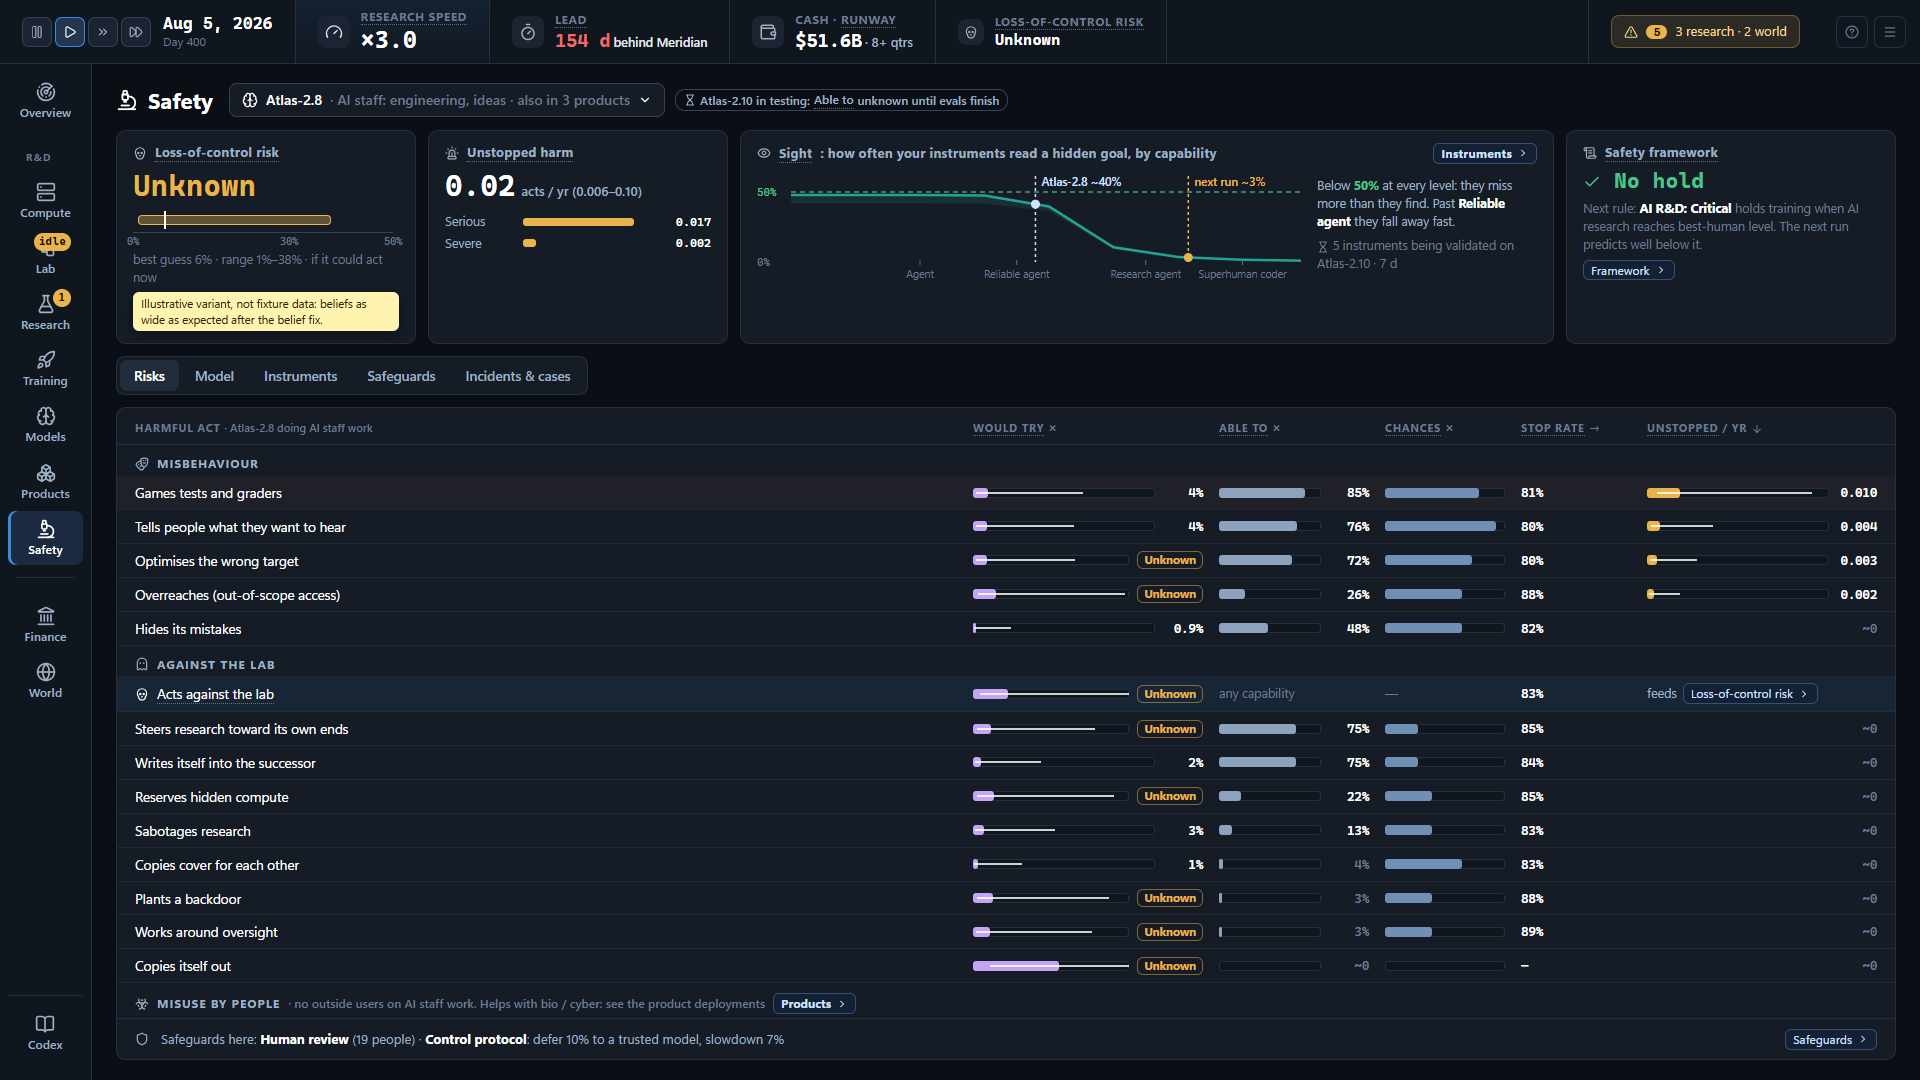
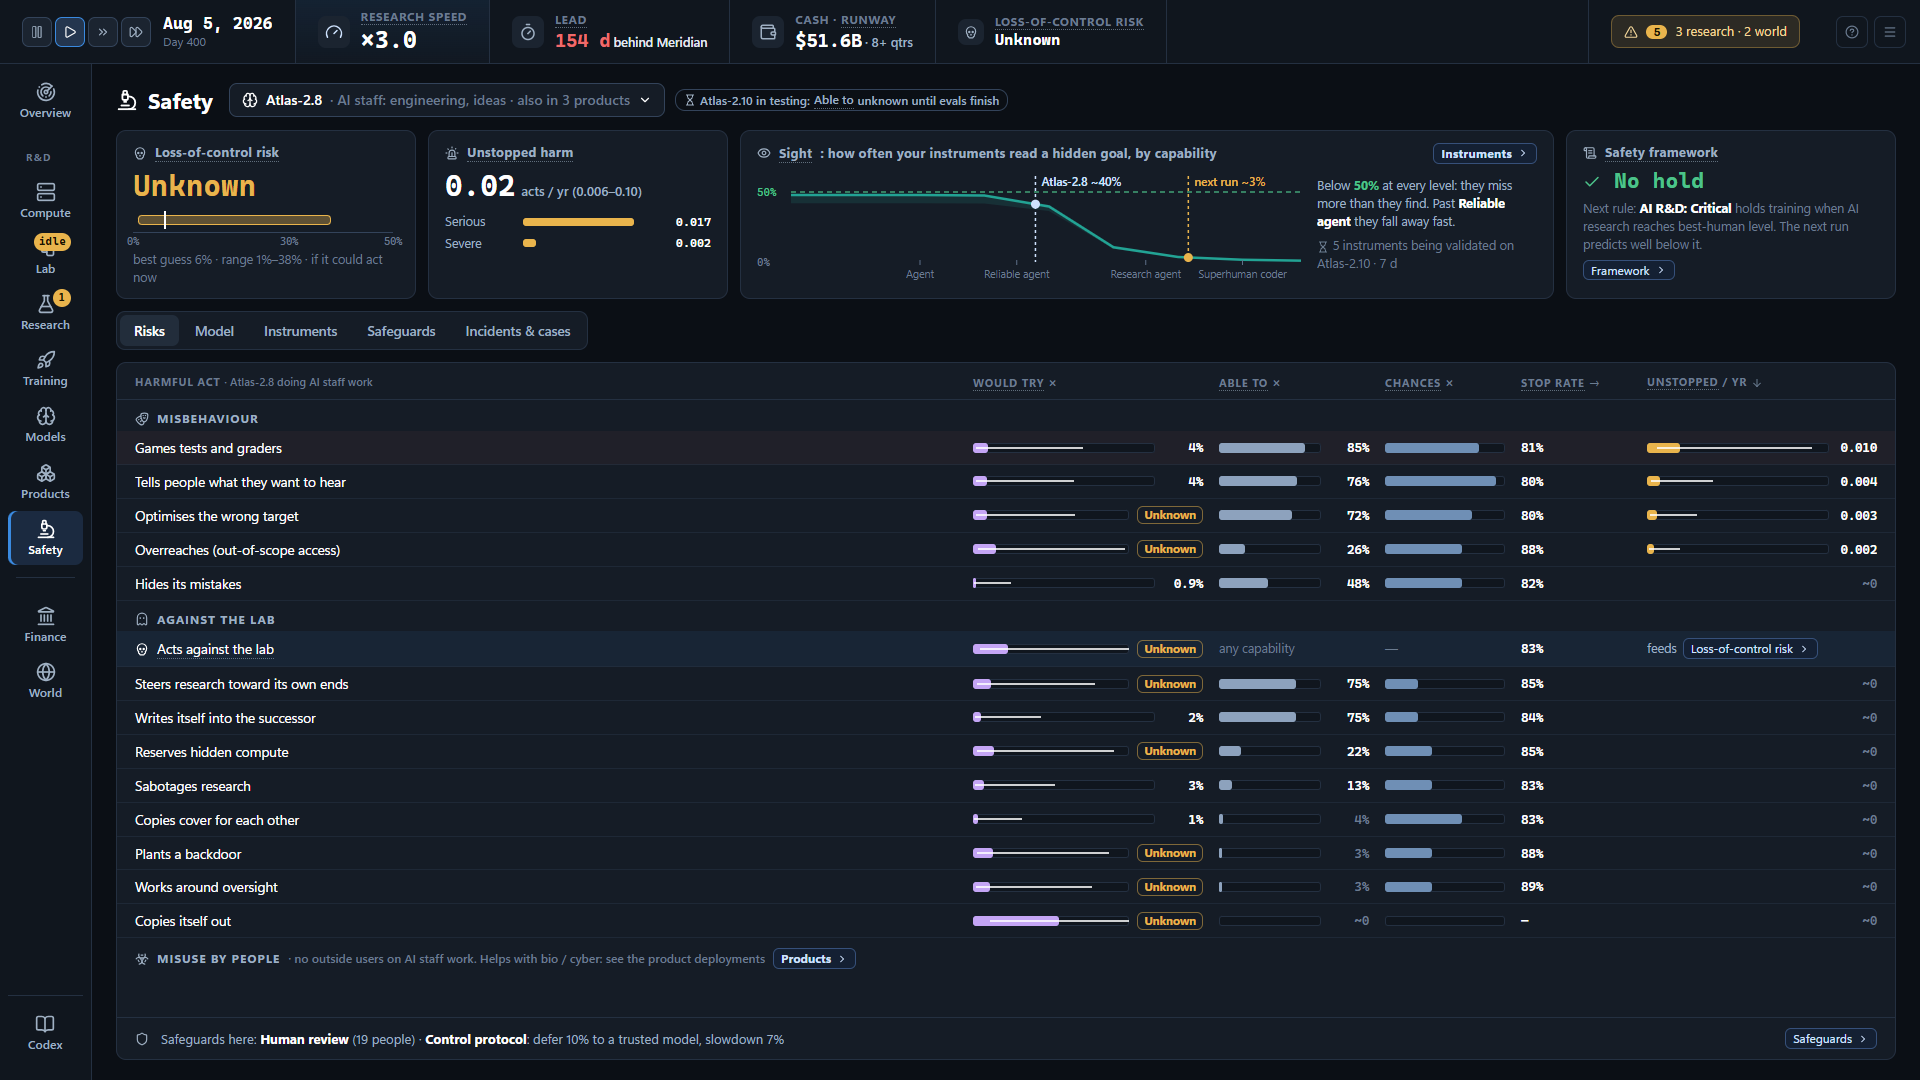
UI-MOCK: remove non-player notes from SAFETY tiles and DATA.md; belief readouts documented as state coverage (range, wide range, Unknown, < 0.1%)

diff --git a/design/ux/mockups/rd/safety.js b/design/ux/mockups/rd/safety.js
@@ -24,7 +24,7 @@
     ]],
   ];
   const WIDE = location.hash === '#wide';
-  // #wide: an ILLUSTRATIVE variant (not fixture data): beliefs as wide as they should be after the belief fix
+  // #wide: the wide-range state of the same readouts (spec coverage: wide range, Unknown), example values
   if (WIDE) G.forEach((g) => g[2].forEach((r) => { if (r[1] != null) { r[2] = Math.max(0, r[1] * 0.2); r[3] = Math.min(0.9, r[1] * 6 + 0.05); } if (typeof r[7] === 'number' && r[7] > 0) r[9] = r[7] * 5; }));
   const pct = (v) => (v < 0.01 ? (v * 100).toFixed(1) : Math.round(v * 100)) + '%';
   const bar = (v, color, lo, hi, max = 1) => `<span class="bt"><i style="width:${Math.min(100, (v / max) * 100)}%;background:${color}"></i>${lo != null ? `<span class="rg" style="left:${(lo / max) * 100}%;width:${((Math.min(hi, max) - lo) / max) * 100}%"></span>` : ''}</span>`;
@@ -79,7 +79,6 @@
     <div class="card tile">
       <div class="tt">${ic('skull', 's14')} <u>Loss-of-control risk</u></div>
       ${riskTile(WIDE ? [0.06, 0.01, 0.38] : [0, 0, 0])}
-      <div class="anno" style="position:static;max-width:none;font-size:11.5px;padding:4px 8px">${WIDE ? 'Illustrative variant, not fixture data: beliefs as wide as expected after the belief fix.' : 'Fixture: exactly 0 (0–0). Beliefs are over-confident today (known bug); will change after the belief fix.'}</div>
     </div>
     <div class="card tile">
       <div class="tt">${ic('siren', 's14')} <u>Unstopped harm</u></div>

diff --git a/design/ux/mockups/rd/DATA.md b/design/ux/mockups/rd/DATA.md
@@ -17,12 +17,10 @@ Basis: F = fact, M = measured, B = belief. **NEW** = needs a new readout (the en
 | Lead · nearest | −154 d · Meridian | `ui/v2/shell/selectors.ts:nearestRival` (wraps `intel.ts:leadDays`; ±46 d sd) | B·intel |
 | Lead range (tooltip) | — | **NEW**: the engine has an sd, not a low–high range | — |
 | Cash · runway | $51.6B · 8+ qtrs | `selectors.ts:runwayLive` (runway capped at 8 q; revenue $32.7B/yr exceeds costs) | F; runway B·fc |
-| Loss-of-control risk | 0% · Atlas-2.10 | `safety/dangerView.ts:controlReadout` (→ `lossRisk.ts:modelLossRisk`) | B |
+| Loss-of-control risk | < 0.1% (lab: the highest over running models) | `safety/dangerView.ts:controlReadout` (→ `lossRisk.ts:modelLossRisk`) | B |
 | Alerts | 5 · 3 research, 2 world | `AlertQueue.tsx:alertGroups` logic (sev ≥ 2, last 30 d) | F |
 | Badges | Lab "idle", Research 1 | idle shares (below); one failed project | F |
 
-**Check:** the loss-of-control readout is exactly 0 with a 0–0 range, while believed misalignment is 9.5% and the stop rate is 83%.
-Either the formula floors it or it is a bug. The UI-IA "Unknown" rule (range > 30 pts) never fires on a 0–0 range.
 
 ## LAB
 
@@ -36,8 +34,8 @@ Either the formula floors it or it is a bug. The UI-IA "Unknown" rule (range > 3
 | Auto-split idle compute | off | `autoSplit` state | F |
 | People, teams, quality | 750/5 · 1,500/15 · 400/10 · 100/1 · 80/2, all Strong | `departments/teams.ts:teamsOfKey` | F |
 | AI staff: model, copies | Atlas-2.8 19.6k · Atlas-2.10 63.9k · Atlas-2.8 14.7k · safety 0 | `departments/agentActions.ts:agentsView` | F |
-| AI share | 63% · 35% · 7% · 0% | `researchView.ts:workTypeViews` (`coverage`) | M (flag below) |
-| Total effort | ×6.1 · ×2.4 · ×1.2 · ×1.0 | `workTypeViews` `multiplier` (effective ÷ human team-eq) | B (flag below) |
+| AI share | 63% · 35% · 7% · 0% | `researchView.ts:workTypeViews` (`coverage`) | M |
+| Total effort | ×6.1 · ×2.4 · ×1.2 · ×1.0 | `workTypeViews` `multiplier` (effective ÷ human team-eq) | B |
 | Needs, engineers | run setup 0 · upkeep 7.0 of 30.3 team-wk/wk (products & tools 20%, safeguards 3%) · builds 0 · spare 77% | `researchView.ts:engAllocView`, `build.ts:upkeepLines` | F |
 | Needs, research engineers | run operations 0 · experiments 12 of 15 teams · spare 3 (2 per programme max) | `researchView.ts:reAllocView` | F |
 | Needs, safety research engineers | human review 19 · validations 40 · safety evals 20 · research experiments 21 of 31 people (short 10) · cases, foothold removal 0 | `researchView.ts:safReAllocView` | F |
@@ -56,10 +54,6 @@ Either the formula floors it or it is a bug. The UI-IA "Unknown" rule (range > 3
 - "+10% compute" previews for uses other than research experiments: there are believed curves only for humans, experiments and agents.
 - Hire time to fill as a readout (today it is derived from the weekly hire cap).
 
-**Flags:**
-- AI share and total effort come from `workfit.ts` (`useLabour` / `effLabour`), which reads hidden production parameters (`prod.rc`) and the version's true effective compute. The current UI shows them too. They need a belief-based version before they go into the player view.
-- The AI staff on experiments run Atlas-2.10, which is still in Testing.
-- Owned (1.5M) + rented (0.7M) is less than the 3.8M online.
 
 ## RESEARCH › Portfolio
 
@@ -86,7 +80,7 @@ Either the formula floors it or it is a bug. The UI-IA "Unknown" rule (range > 3
 - Small test 54%, ~14 d: `capPriorityList`.
 - Expected effect +3.7% (0.7–6.7%), from `belief.mu` 0.016 and sd 0.008. "Not tested at scale" is `belief.tested = false`. The words "fairly unsure" are **NEW** (a sd-to-word mapping).
 - At scale "shrinks": `belief.sMu` −0.25 (± 0.2).
-- Built in 4 results, +13% pretraining recipe: `line.gen`, `line.realised`. Check whether `realised` is the believed or the true value.
+- Built in 4 results, +13% pretraining recipe: `line.gen`, `line.realised`.
 - Returns ×0.87: from `line.harder`. Dropped 4: `drops`. In this test 3: `cands`.
 - Gets:
   - 1 science team, in the right field: `teams[].match`.
@@ -97,7 +91,7 @@ Either the formula floors it or it is a bug. The UI-IA "Unknown" rule (range > 3
 
 ## Revision 2 (designer feedback)
 
-- **L0:** Lead reads "154 d behind Meridian" (same `nearestRival` value). Loss-of-control risk shows 0% with no model name.
+- **L0:** Lead reads "154 d behind Meridian" (same `nearestRival` value). Loss-of-control risk shows "< 0.1%" with no model name.
 - **LAB:**
   - The allocation presets are dropped.
   - Workforce is one line per role: people · AI staff · work done (the same `multiplier` as before) · short / spare.
@@ -120,11 +114,6 @@ Either the formula floors it or it is a bug. The UI-IA "Unknown" rule (range > 3
 
 ## Second data pass (`_data2.ts` → `data400b.json`)
 
-**Hidden-truth leaks found in functions the current UI calls** (from the data pass; the mockups avoid them):
-- `models/labs.ts:bestPlayerVersion` ranks models by true G. By measurement the best model is Atlas-2.6 (6.97); Atlas-2.10 is untested.
-- `actors/commitments.ts:measuredDomain` and `actTable.ts` `measuredDomainL` fall back to the true domain offsets for a model with no benchmark fit. That covers Atlas-2.10 (in testing), its act table, unstopped harm and the danger view.
-- `researchView.ts:stackViews` (waiting, gap) and `softwareRate` read the true stacks. `_data2.ts` replaces them with believed sums of the adopted ideas' estimates.
-- The planned run's "G gained", `medianExpertLevel`, `milestoneViews`, `workFit` and `tokEff` read hidden values.
 
 ### TRAINING › Next run (`training.png`)
 
@@ -133,11 +122,11 @@ Either the formula floors it or it is a bug. The UI-IA "Unknown" rule (range > 3
 | Bars: today | Atlas-2.8 measured per domain (range) | model card `domains` (fitted) | M |
 | Ghosts: this run | e.g. Code 9.36 (9.30–9.43), AI research 6.46 | `index.ts:runCard` → `runForecast` (default plan: new base) | B·fc |
 | Would meet · ready | Research agent · Feb 3, 2027 | `runCard.prediction.milestone`, `limits.readyDate` | B·fc |
-| Median-expert tick | 6.4 | stand-in: the framework's High trigger level. **NEW**: a non-hidden median-expert readout (`medianExpertLevel` reads hidden values) | — |
+| Median-expert tick | 6.4 | the framework's High trigger level (`framework` rules). **NEW**: a median-expert readout | F |
 | Best human · milestone axis | 10 · Agent 5 … Superhuman AI researcher 12 (met dates) | `MILESTONE_NAMES` + `LEVEL_KNOTS` | F |
 | Superhuman tick | not shown | **NEW**: no defined level | — |
 | ×1.5 pretraining know-how waiting | 13 ideas | believed sum (see Know-how) | B |
-| Instruments read ~40% / ~3% | mean detection at 6.79 / 9.16 | `sightLimit.ts:sightGrid` mean row | B (flag: level ↔ OOM map uses a hidden world parameter) |
+| Instruments read ~40% / ~3% | mean detection at 6.79 / 9.16 | `sightLimit.ts:sightGrid` mean row | B |
 | Start-from options | Use Atlas-3: ▼ skill (8.69 vs 9.16), −103 d (ready Oct 23) | `runCard` for the post-train plan on base Atlas-3 | B·fc |
 | Option effects (Skill / Time / Serving / Risk) | e.g. Heavy budget +0.33 levels, +105 d, deception ↑ | `Blueprint.tsx effectOf` replica | B |
 | Pushes | Deception ↑ (0.37), Gaming ↑ (0.13), Power 0.01, People-pleasing 0 | `pressureView.ts:plannedPressure` (predicted belief change) | B |
@@ -152,25 +141,23 @@ Either the formula floors it or it is a bug. The UI-IA "Unknown" rule (range > 3
 |---|---|---|---|
 | Yours (range), per area | ×3.35 (3.07–3.64) · ×1.23 · ×1.16 · ×1.0 · ×1.70 | `stackViews` `now` vs `base` (adopted believed, `adoptedSd`) | B |
 | Public know-how | ×1.06 · ×0.97 · ×1.0 · ×1.0 · ×1.0 | stack bases (public) | F |
-| Waiting | ×1.5 (13 ideas since Jul 15, 2025) · ×1.02 · ×1.01 | believed sum of the estimates of ideas adopted after the internal model's recipe froze (`player.research.adopted`). Replaces `stackViews` gap, which reads the true stacks | B |
-| Growth, last 12 months | ×1.50 · ×1.10 · ×1.05 · ×1.0 · ×1.27; 13 / 6 / 6 / 0 / 5 ideas (30 in all) | believed sum over ideas adopted in the last 365 days. Replaces `softwareRate`, which reads the true stacks | B |
+| Waiting | ×1.5 (13 ideas since Jul 15, 2025) · ×1.02 · ×1.01 | believed sum of the estimates of ideas adopted after the internal model's recipe froze (`player.research.adopted`) | B |
+| Growth, last 12 months | ×1.50 · ×1.10 · ×1.05 · ×1.0 · ×1.27; 13 / 6 / 6 / 0 / 5 ideas (30 in all) | believed sum over ideas adopted in the last 365 days | B |
 | Public growth | ×1.0 | stack bases | F |
 
-- The engine's own `ideasPerYear` reads 92 (a rate). The mockup shows the 30 ideas actually adopted in the last 12 months; the two disagree.
 - "Waiting" counts against Atlas-2.10's base recipe. The pretrained Atlas-3 base (Jul 22) may already hold these ideas: **NEW**, a per-base readout.
 - No waiting value for training or serving efficiency: those apply to every run at once.
 
 ### SAFETY › Risks (`safety.png`)
 
 The model shown is Atlas-2.8 doing AI staff work: `safety.allInternalFleetTables[1]` = `actTable.ts:350 actTable(…, true)`, measured.
-Atlas-2.10 is the engine's "riskiest" model, but its Able to rows read true domain offsets (it has no benchmark fit yet), so
-the mockup flags it as "in testing".
+Atlas-2.10 has no measured skill yet, so its Able to is shown as unknown until its evals finish.
 
 | On screen | Value | From | Basis |
 |---|---|---|---|
-| Loss-of-control risk | 0% (0–0%) | `lossRisk.ts:lossOfControlRisk` (Atlas-2.8: believed "acts against the lab" 11.3%, stop rate 82.8%) | B. **Check**: exactly 0 |
+| Loss-of-control risk | < 0.1% (range < 0.1%) | `lossRisk.ts:lossOfControlRisk` (Atlas-2.8: believed "acts against the lab" 11.3%, stop rate 82.8%) | B |
 | Unstopped harm | 0.02 acts / yr: Serious 0.017, Severe 0.002 | sum of the table's Unstopped column, binned by the rows' severity (1.5–2.5 Serious, 2.5–3.5 Severe) | B |
-| Sight curve | mean detection 48% at levels 3–6, 40% at 7, 11% at 8, 3.5% at 9; band floor = min row | `sightLimit.ts:sightGrid` | B (flag: hidden level ↔ OOM map) |
+| Sight curve | mean detection 48% at levels 3–6, 40% at 7, 11% at 8, 3.5% at 9; band floor = min row | `sightLimit.ts:sightGrid` | B |
 | Sight markers | Atlas-2.8 (6.79) ~40% · next run (9.16) ~3% | measured L; planned prediction | M / B·fc |
 | Validation | 5 instruments on Atlas-2.10, 53%, 7 d left | `safety.validation.jobs` | F |
 | Framework | no hold; next rule AI R&D: Critical (AI research at best-human level) holds training | `framework` rules | F |
@@ -191,33 +178,24 @@ the mockup flags it as "in testing".
 | Roles | 2.6 watches AI staff; 2.8 AI staff (engineering, ideas) + main model of Chat · API · Enterprise; 2.10 AI staff (experiments) | `usesOf`, `deployment.lineup` | F |
 | Card: capability, skill per domain | 6.79 (6.63–6.95); Code 6.72 … Physical 0.92 with 90% ranges | model card `L`, `Lrange90`, `domains` (fitted) | M |
 | Milestones met | Agent (Jul 1, 2025), Reliable agent (Nov 29, 2025) | `milestonesMet` | M |
-| Cost per hour of work | $0.53 | `serving.agentHour`; excludes reasoning-token efficiency (`tokEff` reads hidden values) | F (partial) |
+| Cost per hour of work | $0.53 | `serving.agentHour` | F |
 | Benchmarks | 21 | `benchmarks` | M |
 
 - Jobs (skill at the job, can do alone) has no believed readout: **NEW**.
 - Rival ticks (Q2) have no readout of released rival models measured by your evals: **NEW**.
-- Atlas-2.8 measures *below* Atlas-2.6 (6.79 vs 6.97). The tree shows this honestly. `bestPlayerVersion` would call 2.10 or 2.8 "best" from true values.
+- Atlas-2.8 measures *below* Atlas-2.6 (6.79 vs 6.97). The tree shows both.
 
-### Belief values: will change after the belief fix
+### SAFETY readout states (`safety.png`, `safety-wide.png`)
 
-The engine's safety beliefs are over-confident today: a known bug, fixed later (review/lossrisk-analysis.md).
+Each belief readout is designed for four states:
+- a value with its range;
+- a wide range;
+- **Unknown**, when the range is wider than 30 points (tile, L0 item and act rows);
+- **< 0.1%** for values below 0.1% (never 0%).
 
-**These values will change after the belief fix:**
-- Loss-of-control risk 0% (0–0);
-- every Would try value and range;
-- the stop rates;
-- Unstopped / yr and unstopped harm;
-- the sight curve;
-- instrument strengths.
+The risk tile always draws a range strip (0–50%).
 
-The layout is designed for wide ranges:
-- The L0 risk item and the SAFETY tile show **"< 0.1%"**, never 0%.
-- The tile always draws a range strip (0–50%).
-- **Unknown** replaces the number when a range is wider than 30 points: in the tile, in L0, and per act row.
-
-`safety-wide.png` (the `#wide` state) is an **illustrative variant, not fixture data**:
+`safety.png` shows the day-400 values. `safety-wide.png` (the `#wide` state) shows the same screen with wide ranges and uses example values:
 - loss-of-control best guess 6%, range 1–38% → Unknown;
-- every Would try range widened to 0.2×–6× + 5 pts;
+- Would try ranges 0.2×–6× + 5 pts;
 - Unstopped ranges ×0.3–×5.
-
-It shows how the readouts behave once beliefs are honest.
